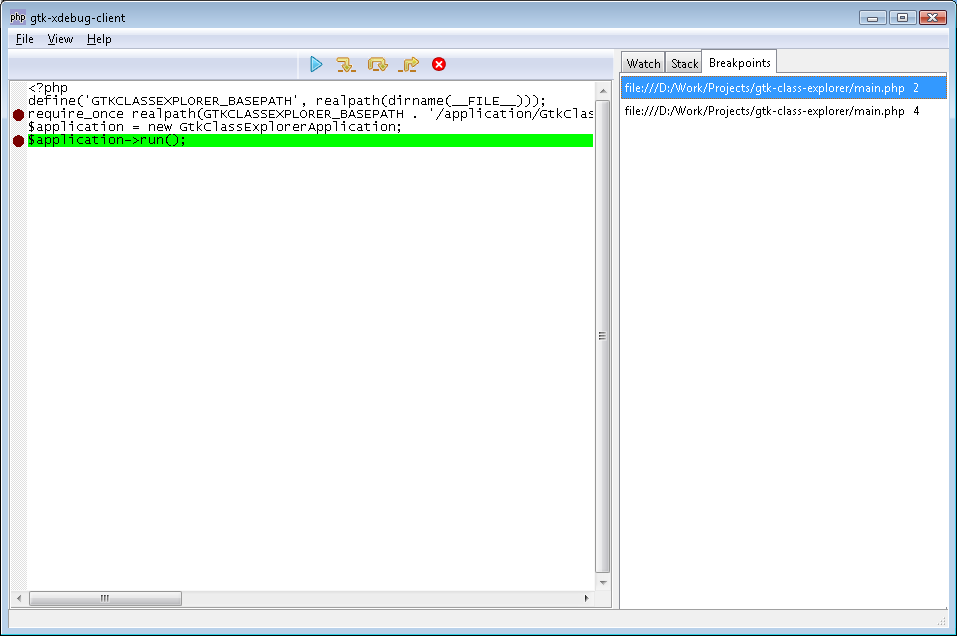
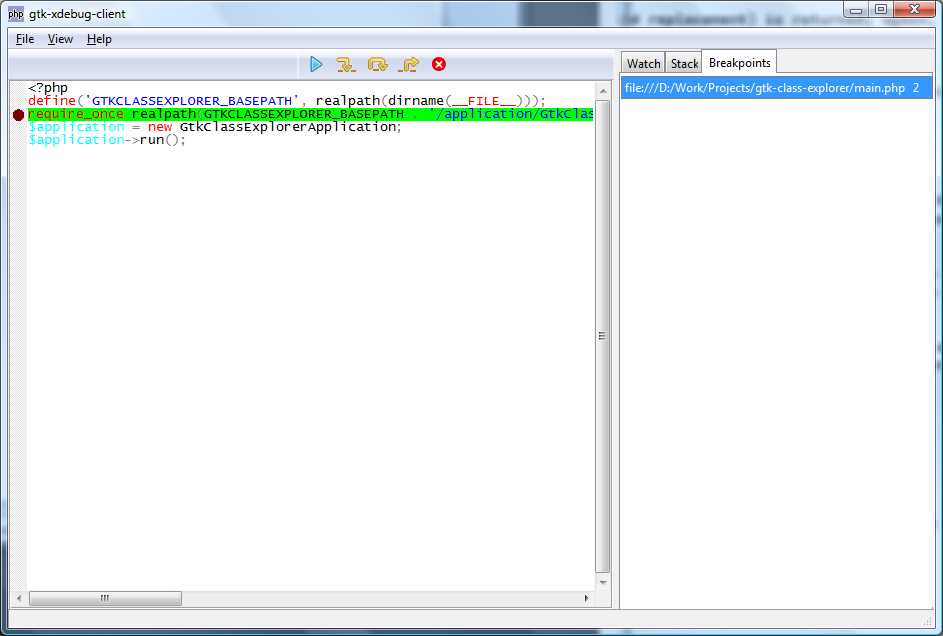
Added some support for syntax highlighting (syntax highlighting data like keyword list and style settings need to be moved out of the view class).

Changed region(s): [[0.0, 0.0, 1.0, 1.0], [0.3075, 0.0896, 0.492, 0.1195]]

diff --git a/view/Editor.php b/view/Editor.php
@@ -46,6 +46,142 @@ class View_Editor extends View_Widget {
 
 
 		$this->editor->marker_define_pixmap(self::MARKER_BREAKPOINT, file_get_contents(GTKXDEBUGCLIENT_BASEPATH . '/view/breakpoint.xpm'));
+		$this->editor->set_lexer(GtkScintilla::SCINTILLA_LEX_PHPSCRIPT);
+		$this->editor->set_style_bits($this->editor->get_style_bits_needed());
+
+		$defaultBack = $this->phpStyles[GtkScintilla::SCINTILLA_HTML_PHP_DEFAULT]['back'];
+		foreach ($this->phpStyles as $style => $desc) {
+			$this->setStyle($style, call_user_func_array(array($this, 'color'), $desc['fore']), call_user_func_array(array($this, 'color'), isset($desc['back']) ? $desc['back'] : $defaultBack));
+		}
+		$this->editor->set_keywords(4, join(' ', $this->phpKeywords));
+	}
+
+	public $phpStyles = array(
+		GtkScintilla::SCINTILLA_HTML_PHP_DEFAULT => array(
+			'fore' => array(0, 0, 0),
+			'back' => array(255, 255, 255),
+		),
+		GtkScintilla::SCINTILLA_HTML_PHP_HSTRING => array(
+			'fore' => array(0, 255, 0),
+		),
+		GtkScintilla::SCINTILLA_HTML_PHP_SIMPLESTRING => array(
+			'fore' => array(0, 0, 255),
+		),
+		GtkScintilla::SCINTILLA_HTML_PHP_WORD => array(
+			'fore' => array(255, 0, 0),
+		),
+		GtkScintilla::SCINTILLA_HTML_PHP_NUMBER => array(
+			'fore' => array(255, 255, 0),
+		),
+		GtkScintilla::SCINTILLA_HTML_PHP_VARIABLE => array(
+			'fore' => array(0, 255, 255),
+		),
+		GtkScintilla::SCINTILLA_HTML_PHP_COMMENT => array(
+			'fore' => array(255, 0, 255),
+		),
+		GtkScintilla::SCINTILLA_HTML_PHP_COMMENTLINE => array(
+			'fore' => array(255, 0, 255),
+		),
+		GtkScintilla::SCINTILLA_HTML_PHP_HSTRING_VARIABLE => array(
+			'fore' => array(0, 255, 255),
+		),
+		GtkScintilla::SCINTILLA_HTML_PHP_OPERATOR => array(
+			'fore' => array(127, 127, 127),
+		),
+	);
+
+	// http://www.php.net/manual/en/reserved.keywords.php
+	public $phpKeywords = array(
+		// PHP Keywords
+		'abstract', // (as of PHP 5)	
+		'and',
+		'array',	
+		'as',	
+		'break',	
+		'case',	
+		'catch', // (as of PHP 5)	 
+		'cfunction', // (PHP 4 only), same as function (as per http://www.phpbuilder.com/lists/php3-list/199807/2411.php)
+		'class',
+		'clone', // (as of PHP 5)
+		'const',
+		'continue',
+		'declare', 
+		'default', 
+		'do',
+		'else',
+		'elseif',
+		'enddeclare',
+		'endfor',
+		'endforeach',
+		'endif',
+		'endswitch',
+		'endwhile', 
+		'extends', 
+		'final', // (as of PHP 5)
+		'for', 
+		'foreach', 
+		'function',
+		'global',
+		'goto', // (as of PHP 5.3)
+		'if', 
+		'implements', // (as of PHP 5)	
+		'interface', // (as of PHP 5)
+		'instanceof', // (as of PHP 5)
+		'namespace', // (as of PHP 5.3)	
+		'new', 
+		'old_function', // PHP2/FI leftover (PHP 4 only)
+		'or', 
+		'private', // (as of PHP 5)
+		'protected', // (as of PHP 5)
+		'public', // (as of PHP 5)
+		'static', 
+		'switch',
+		'throw', // (as of PHP 5)
+		'try', // (as of PHP 5)	
+		'use', //	
+		'var', 
+		'while',
+		'xor',
+		
+		// Compile-time constants
+		'__class__',
+		'__dir__', // (as of PHP 5.3)
+		'__file__',	
+		'__function__',
+		'__method__',
+		'__namespace__', // (as of PHP 5.3)				
+
+		// Language constructs
+		'die', 
+		'echo',
+		'empty',
+		'exit',
+		'eval',
+		'include',
+		'include_once',
+		'isset',
+		'list',
+		'require',
+		'require_once', 
+		'return', 
+		'print',
+		'unset',
+
+		// some internal functions
+		'define',
+	);
+
+	public function setStyle($style, $fore, $back, $size = false, $face = false) {
+		$this->editor->style_set_fore($style, $fore);	
+		$this->editor->style_set_back($style, $back);
+
+		if ($size) {
+			$this->editor->style_set_size($style, $size);
+		}
+
+		if ($face) {
+			$this->editor->style_set_font($style, $face);
+		}
 	}
 
 	public function setCurrentLine($num) {
@@ -73,6 +209,7 @@ class View_Editor extends View_Widget {
 		$this->editor->clear_all();
 		$this->editor->insert_text(-1, $contents);
 		$this->setCurrentLine(0);
+		$this->editor->colourise(0, -1);
 	}
 
 	public function addBreakpoint($file, $line, $id) {
